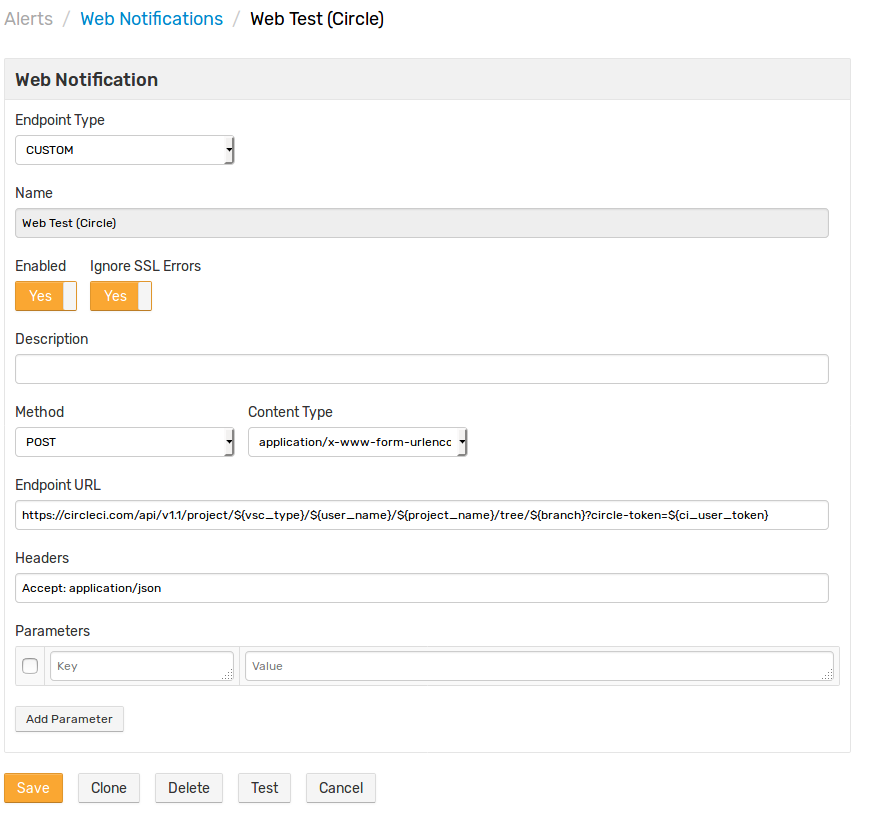
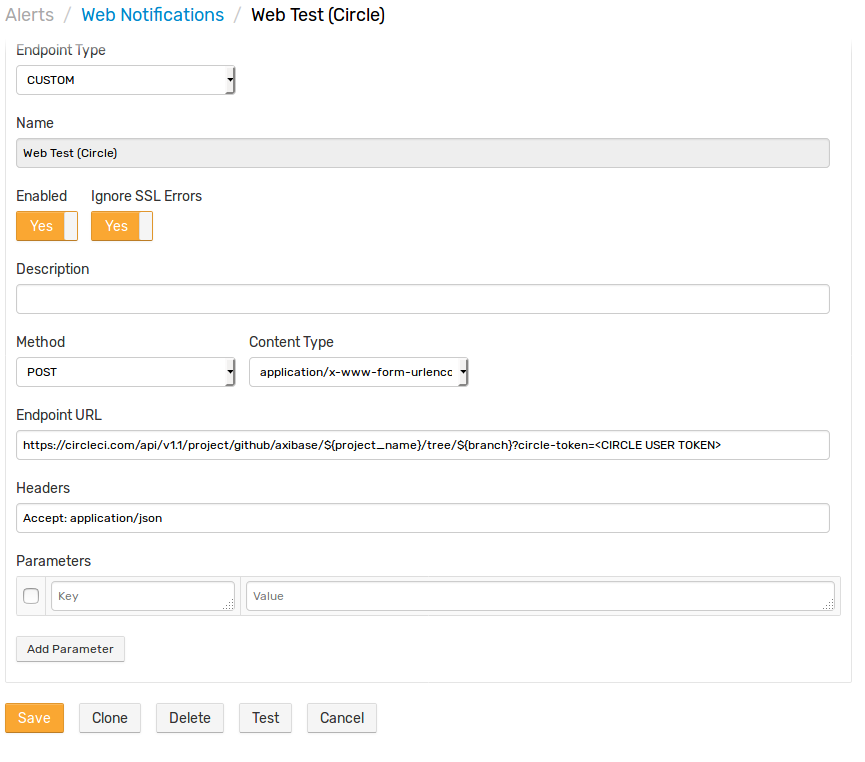
updated circleci.md

diff --git a/rule-engine/notifications/custom-circleci.md b/rule-engine/notifications/custom-circleci.md
@@ -2,18 +2,16 @@
 
 ## Overview
 
-The following documentation demonstrates starting CircleCI build using CircleCI HTTP API and ATSD custom web notifications
+The following documentation demonstrates starting CircleCI build using [CircleCI API](https://circleci.com/docs/api/v1-reference/) and ATSD custom web notifications
 
-## Endpoint
+## Configuration
 
-[CircleCI API v1.1](https://circleci.com/docs/api/v1-reference/)
+Replace \<CIRCLE USER TOKEN> in Endpoint URL with CircleCI user token
 
 ```
-Name: Web Test (Circle)
-Endpoint Type: CUSTOM
 Method: POST
 Content Type: application/x-www-form-urlencoded
-Endpoint URL: https://circleci.com/api/v1.1/project/${vsc_type}/${user_name}/${project_name}/tree/${branch}?circle-token=${ci_user_token}
+Endpoint URL: https://circleci.com/api/v1.1/project/github/axibase/${project_name}/tree/${branch}?circle-token=<CIRCLE USER TOKEN>
 Headers:
     Accept: application/json
 ```
@@ -35,12 +33,8 @@ Condition: value > 1
 Test rule notification settings:
 
 ```
-Endpoint: [CUSTOM] Web Test (Circle)
-branch: <github branch>
-ci_user_token: <ci user token allowed to start build>
-project_name: <github repository name>
-user_name: <github user name>
-vcs_type: github <github is used for this example, you can setup another repository>
+branch: master
+project_name: atsd-api-java
 ```
 
 ![](images/circle_rule_notification.png)
